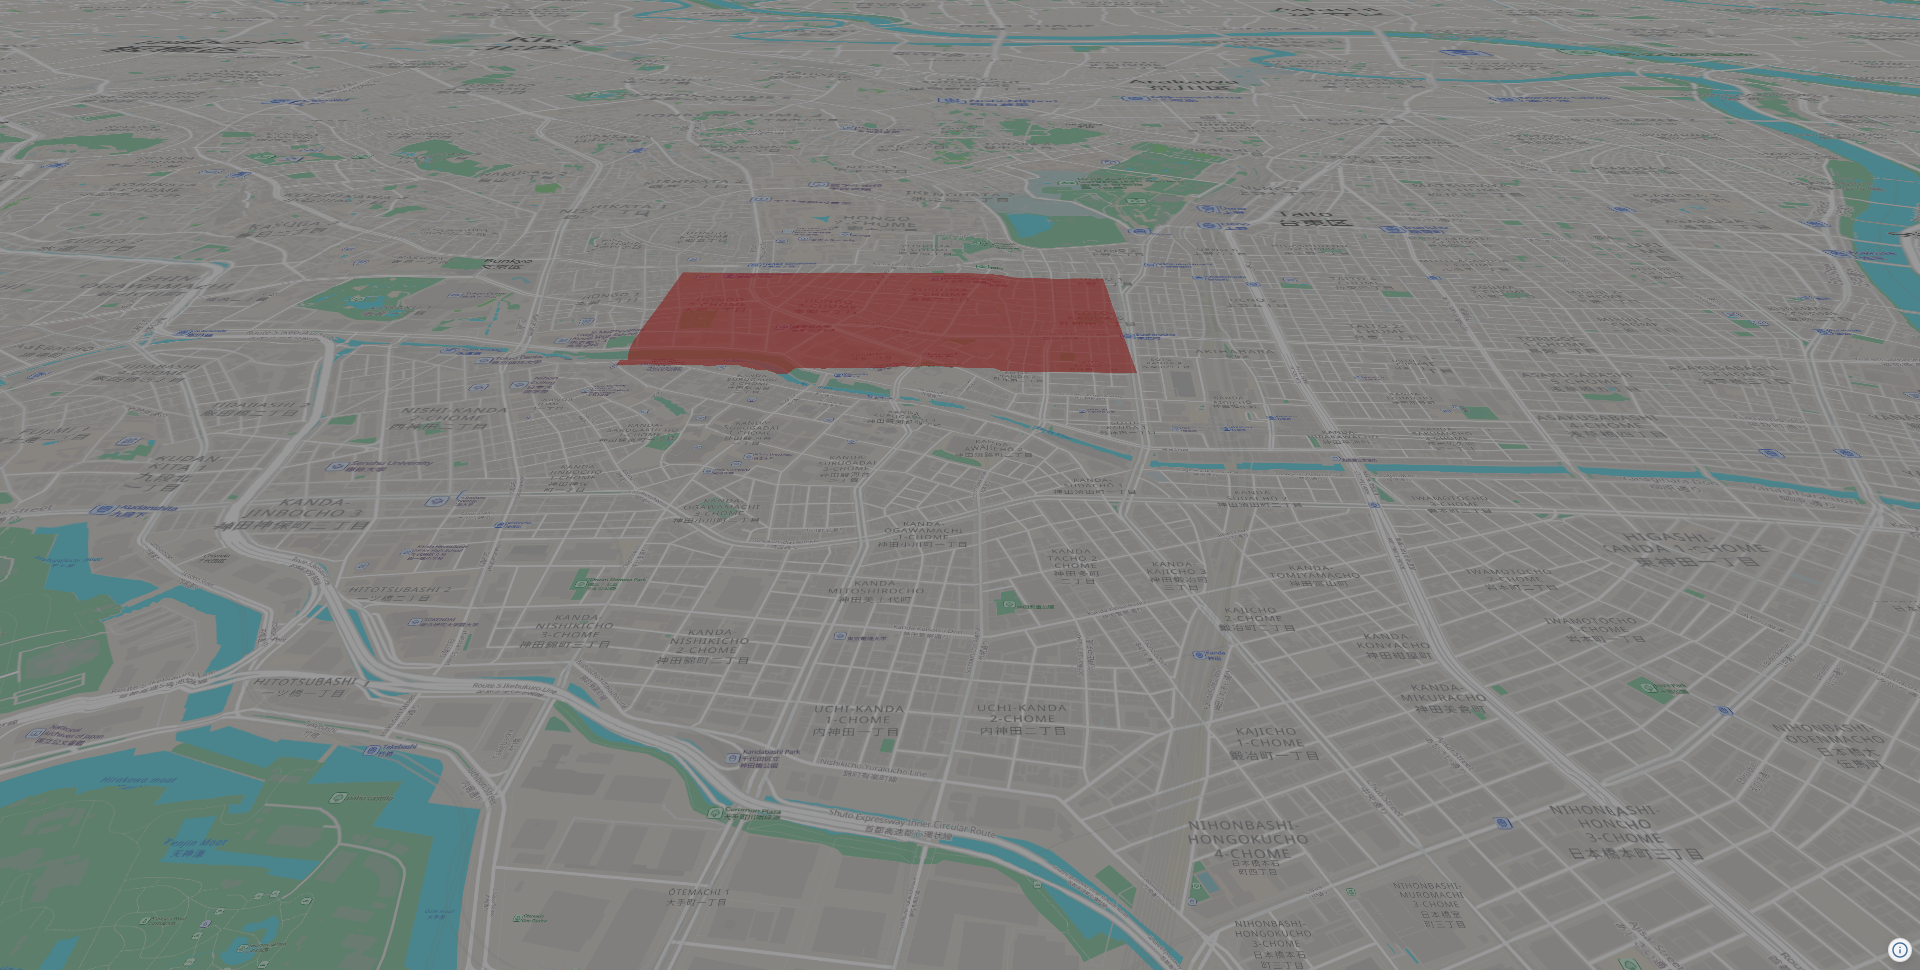
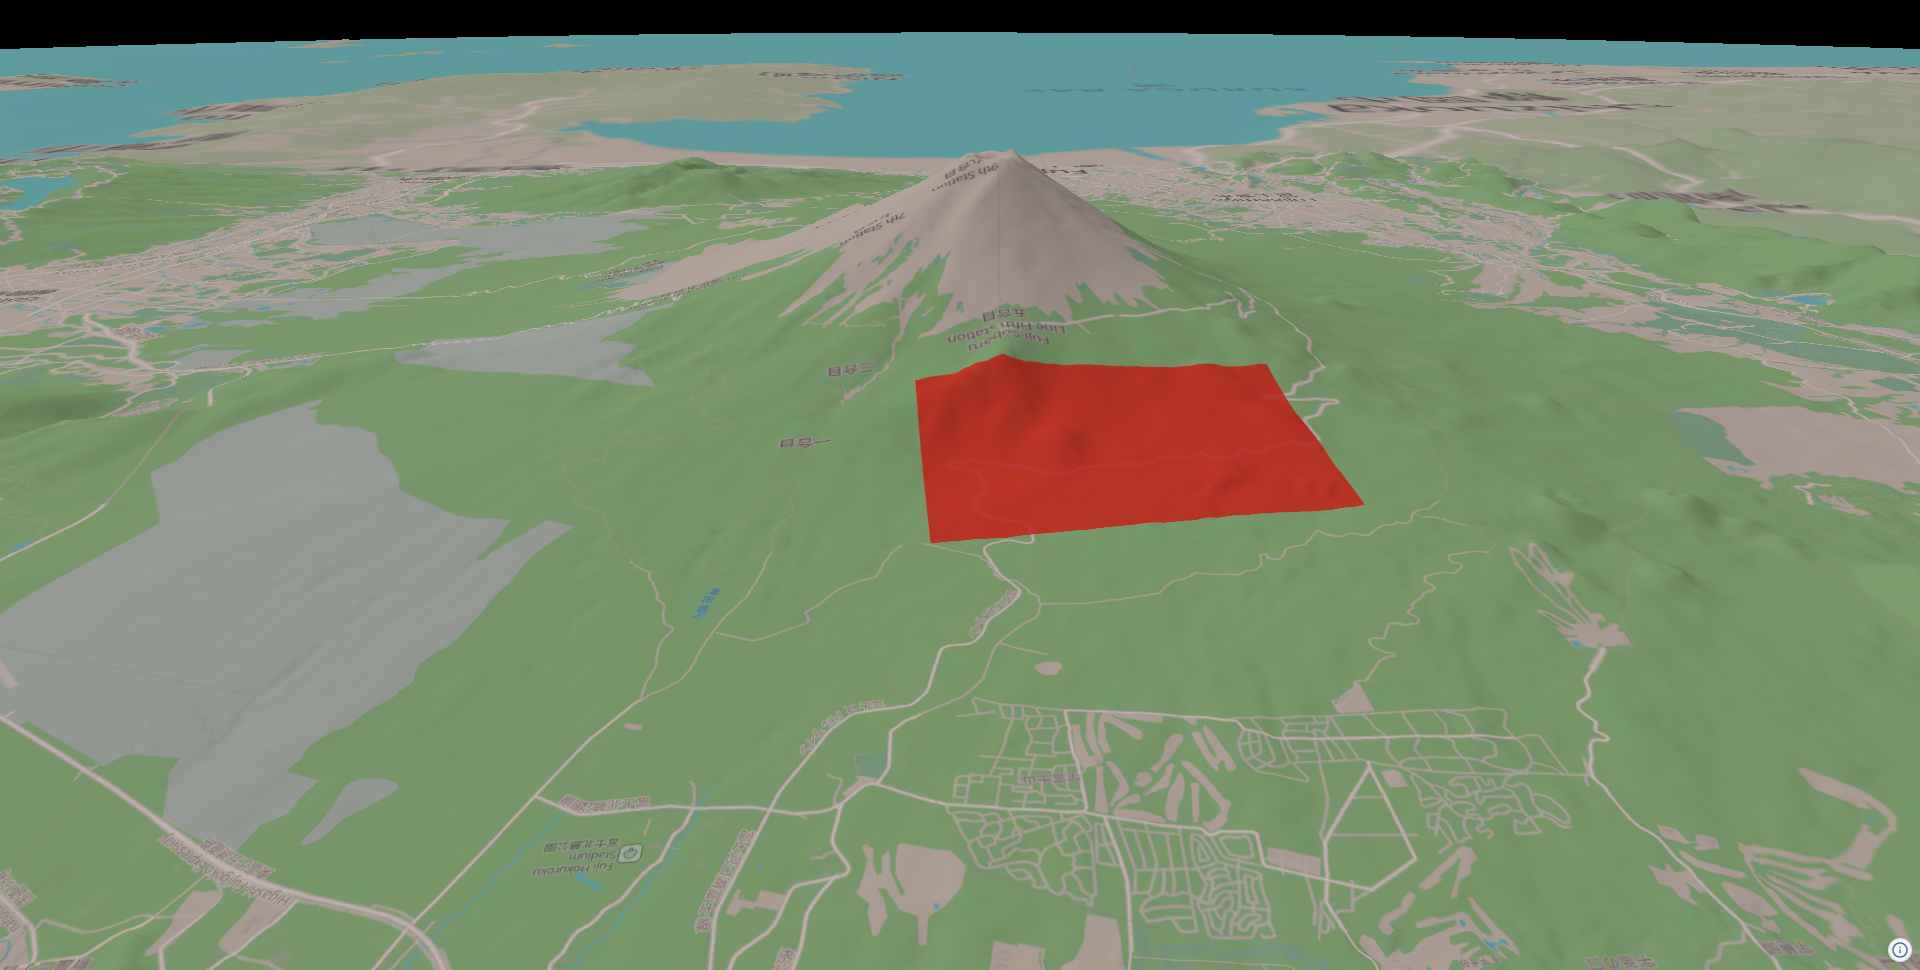
chore: update basic tutorial

diff --git a/web/navara_three/example/pages/debug/docs-shot/main.ts b/web/navara_three/example/pages/debug/docs-shot/main.ts
@@ -5,6 +5,7 @@
  *
  * ?m=clouds|rain|snow|water|ssr   realistic-atmosphere.md
  * ?m=interior                    interior-explore.md
+ * ?m=basic-terrain|basic-geojson basic-visualization.mdx
  * ?exp=<number>                  overrides toneMappingExposure
  */
 import ThreeView, { Color } from "@navaramap/three";
@@ -141,6 +142,89 @@ if (MODE === "interior") {
   });
 
   personView.start();
+} else if (MODE === "basic-terrain" || MODE === "basic-geojson") {
+  // basic-visualization.mdx — "Displaying Terrain" / "Displaying GeoJSON Data"
+  const { TileJsonPlugin } = await import("@navaramap/three-plugins");
+
+  const plugin = new DefaultPlugin();
+  const view = new ThreeView<DefaultDescriptions>({ shadow: true });
+  view.addPlugin(plugin);
+
+  const tilejson = new TileJsonPlugin();
+  view.addPlugin(tilejson);
+
+  await view.init();
+
+  view.addLight({
+    sun: {},
+  });
+  view.atmosphere.date = new Date("2026-07-16T01:00:00Z");
+
+  const terrainSource = view.addSource({
+    type: "quantized-mesh",
+    url: "https://terrain.reearth.land/cesium-mesh/ellipsoid/{z}/{x}/{y}.terrain",
+    requestVertexNormals: true,
+    maxZoom: 18,
+  });
+  view.addLayer({
+    type: "terrain",
+    source: terrainSource,
+    terrain: {
+      castShadow: true,
+      receiveShadow: true,
+    },
+  });
+
+  const basemapSource = await tilejson.addSource({
+    type: "raster-tile",
+    url: "https://papers.reearth.land/styles/protomaps-light/tilejson.json",
+  });
+  view.addLayer({
+    type: "raster",
+    source: basemapSource,
+  });
+
+  if (MODE === "basic-geojson") {
+    const geojsonSource = view.addSource({
+      type: "geojson",
+      data: {
+        type: "Feature",
+        properties: { name: "Area" },
+        geometry: {
+          type: "Polygon",
+          coordinates: [
+            [
+              [138.7, 35.425],
+              [138.7, 35.4],
+              [138.745, 35.4],
+              [138.745, 35.425],
+              [138.7, 35.425],
+            ],
+          ],
+        },
+      },
+    });
+    view.addLayer({
+      type: "vector",
+      source: geojsonSource,
+      polygon: {
+        color: new Color().setHex(0xff3b30),
+        clampToGround: true,
+        opacity: 0.75,
+        transparent: true,
+      },
+    });
+  }
+
+  view.setCamera(
+    camera({
+      lng: 138.75,
+      lat: 35.5,
+      height: 6000,
+      heading: 185,
+      pitch: -26,
+    }),
+  );
 } else {
   const plugin = new DefaultPlugin();
   const view = new ThreeView<DefaultDescriptions>({

diff --git a/skills/navara-usage/SKILL.md b/skills/navara-usage/SKILL.md
@@ -119,6 +119,8 @@ Built-in lights — register via `DefaultPlugin`, then `view.addLight<T>({ ... }
 
 `addDefaultPhotorealScene()` already adds a `sun` + `skyLightProbe` — start there for realistic scenes and add `ambient`/`lightProbe` to taste.
 
+A `sun` light also works standalone, without `addDefaultPhotorealScene()`: its direction still follows `atmosphere.date`, and its color is computed from the atmosphere transmittance texture, which loads on demand (verified 2026-08 shading quantized-mesh terrain with only `view.addLight({ sun: {} })`). Note `view.toneMappingExposure` has no visible effect in such a scene — tone mapping is inactive without the photoreal effect stack, so don't reach for exposure to fix brightness there; use the light's `intensity`.
+
 **`atmosphere.date` is local-time-sensitive.** It's a plain JS `Date`, so `new Date("2024-06-21T12:00:00")` is read in the _device's_ timezone — the sun lands in a different place per machine. Pin a global instant with an explicit UTC string (`new Date("2024-06-21T12:00:00Z")`). To hold the same time-of-day or sun elevation while flying the camera to another country, don't recompute by hand — use `view.atmosphere.setDateFromCameraAt({ lng })` (keeps local solar time) or `setElevationFromCameraAt({ lat, lng })` (keeps sun elevation).
 
 ## Where to verify — never guess API details
